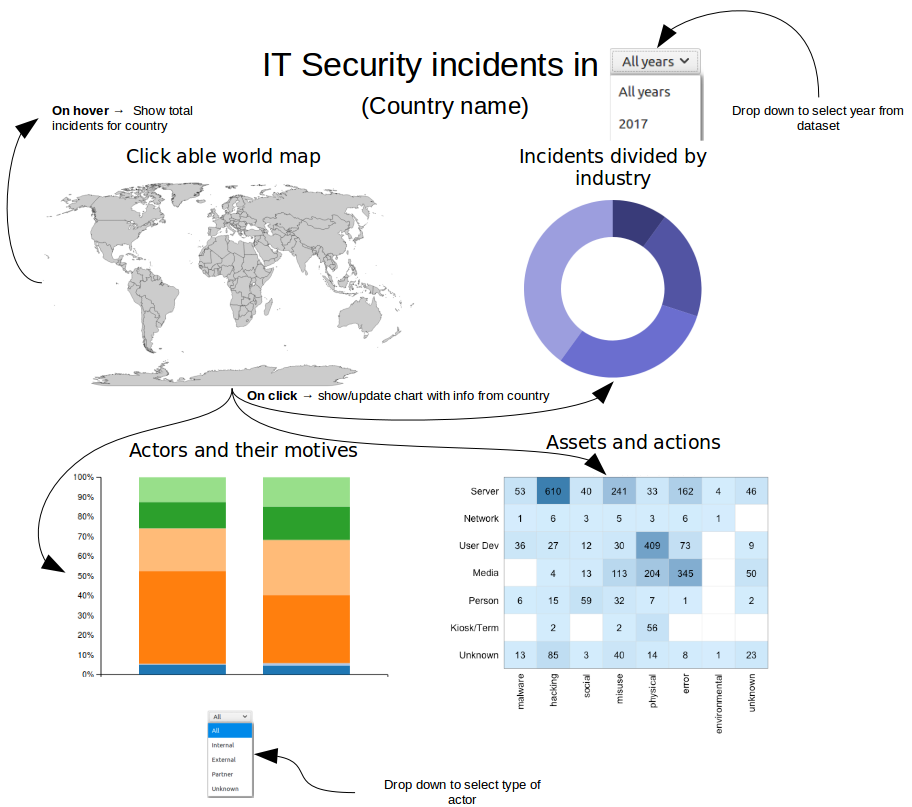
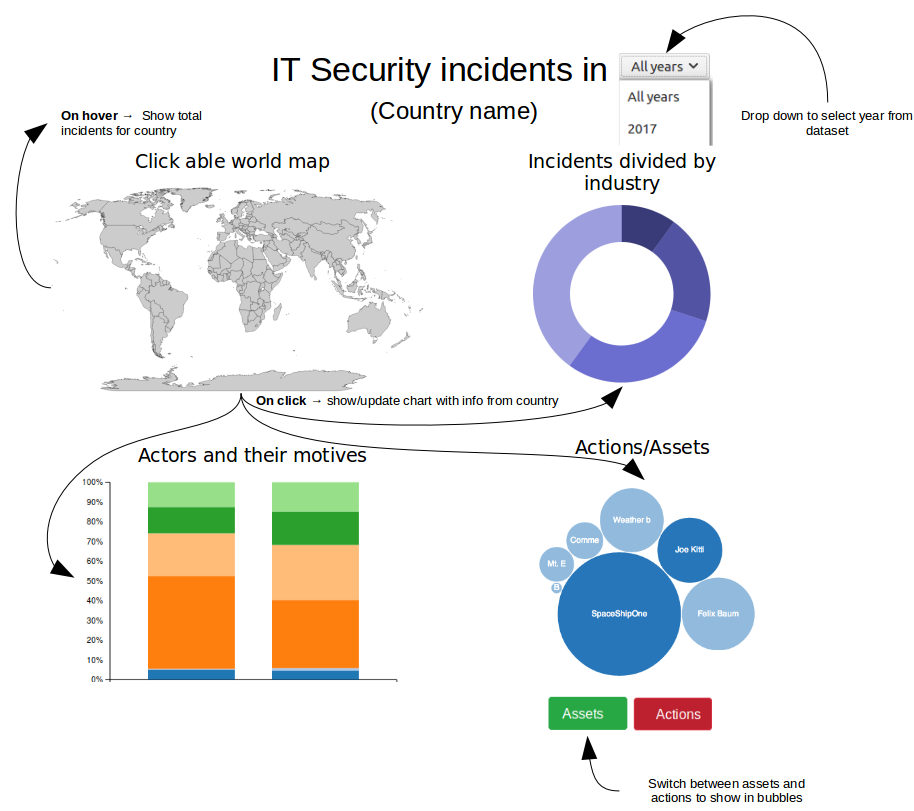
Updated proposal

diff --git a/README.md b/README.md
@@ -23,17 +23,17 @@ This visualization project aims to provide the target audience insight in cyber 
   (When clicking a country)
   * Show distribution by industry for country (pie chart);
   * Show the type of actors and their motives for country (bar chart);
-  * Show the number of assets and actions in a heat map table for country.
+  * Show the actions/assets in a bubble chart.
 
-If another country on the map is clicked, the other visualizations are updated with that data. On top of the page there is a drop-down menu to select a specific year from the dataset. The second interactive element is also a drop-down menu, where a user can select which actors to show in the barchart.
+If another country on the map is clicked, the other visualizations are updated with that data. On top of the page there is a drop-down menu to select a specific year from the dataset. The second interactive element is a toggle button, where a user can switch between the data to show in the bubble visualization.
 
 When hovering a country on the map, a tooltip should show with the total number of security incidents of that country.
 
 **Minimum Viable Product**
 
-The world map, pie chart and bar chart as described above are a minimum viable product. If possible, I want to create a stacked bar chart. The heatmap is also a nice visualization, but I do not know if I am capable to create it.
+The world map, pie chart and bubble chart as described above are a minimum viable product. The stacked bar chart is a nice visualization, but I do not know if I am capable to create it.
 
-In total there are two drop-down menu's. These are the two required interactive components. On top of the page is a drop-down menu to select a specific year from the dataset. The other drop-down is used to select a specific type of actor to show in the barchart.
+In total there are two interactive elements. These are the two required interactive components. On top of the page is a drop-down menu to select a specific year from the dataset. The other element is a toggle button to switch the data to show in the bubble visualization.
 
 ### Prerequisites
 **Data Source**
@@ -45,10 +45,10 @@ The data is available in JSON, so I do not need to edit the data before using. P
 **External Components**
 
 * [D3-tip](https://github.com/caged/d3-tip)
-* [D3Plus](https://d3plus.org/)
 * [Datamaps](http://datamaps.github.io/)
 * [TopoJSON](https://github.com/topojson/topojson)
 * [Bootstrap](https://getbootstrap.com/)
+* [D3 queue](https://github.com/d3/d3-queue)
 
 **Review of similar/related visualizations**
 
@@ -65,8 +65,8 @@ The thing I mainly miss is a "dashboard" kind of feeling, with multiple visualiz
 I have some parts of my visualization idea that prove to be difficult:
 * Updating/linking the multiple visualizations;
 * Mapping/nesting the data so I could use it for my purpose;
-* (Stacked) bar chart and a heat map table.
+* (Stacked) bar chart and the bubble chart.
 
-Especially the new visualizations I never made during the previous course could be difficult to implement. If the new visualizations tend to be too difficult, I could revert to a normal bar chart and a normal table, without the heat map. But with the help of the internet and the staff at UvA I could overcome that problem.
+Especially the new visualizations I never made during the previous course could be difficult to implement. If the new visualizations tend to be too difficult, I could revert to a normal bar chart. But with the help of the internet and the staff at UvA I could overcome that problem.
 
 The linking/updating/mapping/nesting can be fixed by using the JSON file correctly and implementing the updating via the D3 general update pattern. (Enter, update, exit)
